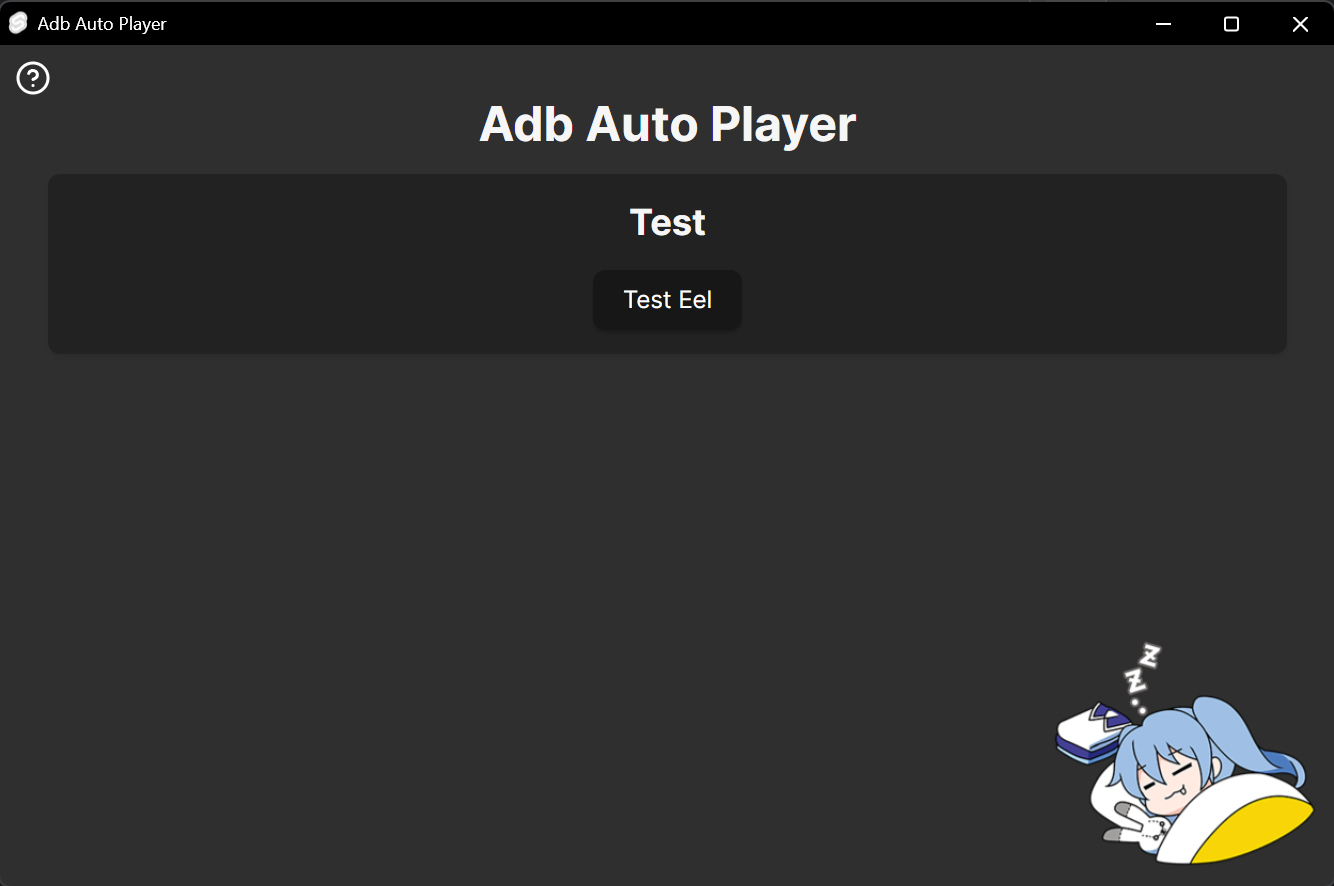
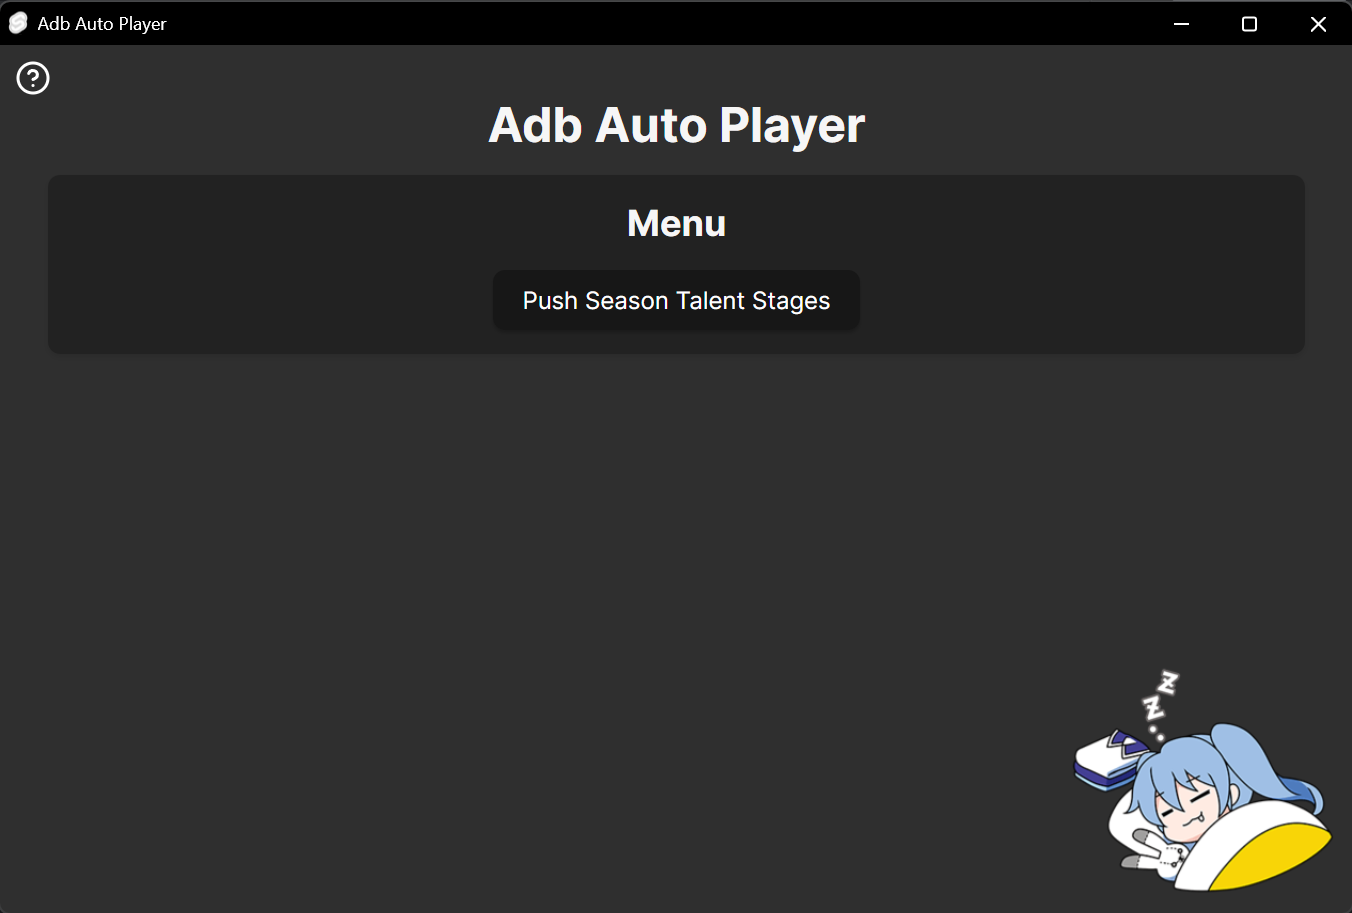
eel dev working state

diff --git a/adb_auto_player/frontend/src/routes/+page.svelte b/adb_auto_player/frontend/src/routes/+page.svelte
@@ -1,18 +1,22 @@
 <script lang="ts">
-    let eel = window.eel;
-    eel?.set_host('ws://localhost:8888');
     import CommandPanel from "./CommandPanel.svelte";
+
+    let disabled = false;
 
     function eelTest(event: Event) {
         event.preventDefault();
-        eel.say_hello_py("Javascript World!");
+        disabled = true;
+        window.eel?.test_bla_bla()((response: string) => {
+            console.log(response);
+            disabled = false;
+        });
     }
 </script>
 
 <main class="container">
     <h1>Adb Auto Player</h1>
-    <CommandPanel title={"Test"}>
-        <button onclick={eelTest}>Test Eel</button>
+    <CommandPanel title={"Menu"}>
+        <button {disabled} onclick={eelTest} >Push Season Talent Stages</button>
     </CommandPanel>
 </main>
 

diff --git a/adb_auto_player/frontend/src/app.html b/adb_auto_player/frontend/src/app.html
@@ -6,6 +6,9 @@
 		<link rel="icon" href="%sveltekit.assets%/favicon.png" />
 		<meta name="viewport" content="width=device-width, initial-scale=1" />
 		<script type="text/javascript" src="http://localhost:8888/eel.js"></script>
+		<script>
+			window.eel?.set_host('http://localhost:8888');
+		</script>
 		%sveltekit.head%
 	</head>
 	<body data-sveltekit-preload-data="hover">

diff --git a/adb_auto_player/main.py b/adb_auto_player/main.py
@@ -7,39 +7,10 @@ from adb_auto_player.logging_setup import update_logging_from_config, setup_logg
 
 setup_logging()
 
-
-def __setup() -> None:
-    update_logging_from_config(main_config)
-
-
-def __version_updater() -> None:
-    version = update_manager.get_version_from_pyproject()
-    if version == "0.0.0":
-        logging.info("Skipping updater for dev")
-        return
-    logging.info(f"Using Version: {version}")
-    logging.info("Checking for updates")
-    result = update_manager.update_plugins()
-    if result is None:
-        logging.info("No new updates")
-    elif result is not None and not result:
-        logging.warning(
-            ".exe or binary needs to be updated: "
-            "https://github.com/yulesxoxo/AdbAutoPlayer/releases/latest"
-        )
-    else:
-        logging.info("Plugins updated successfully")
-        logging.warning(
-            "Your plugin configs have been reset, "
-            "backups were saved as 'config_backup.toml'"
-        )
-
-
 if __name__ == "__main__":
     main_config = plugin_loader.get_main_config()
-
-    __setup()
-    __version_updater()
+    update_logging_from_config(main_config)
+    update_manager.version_updater()
 
     device = adb.get_device(main_config)
     app = adb.get_currently_running_app(device)

diff --git a/adb_auto_player/eel_main.py b/adb_auto_player/eel_main.py
@@ -1,13 +1,39 @@
+import sys
+
 import eel
+import adb_auto_player.eel_functions as eel_functions
 
-eel.init("frontend/build", [".tsx", ".ts", ".jsx", ".js", ".html", ".svelte"])
+import adb_auto_player.update_manager as update_manager
+import adb_auto_player.plugin_loader as plugin_loader
+from adb_auto_player.logging_setup import update_logging_from_config, setup_logging
+
+setup_logging()
 
 
-@eel.expose
-def say_hello_py(x: str) -> None:
-    print("Hello from %s" % x)
+def __init_dev() -> None:
+    eel.init("frontend/src", [".tsx", ".ts", ".jsx", ".js", ".html", ".svelte"])
+    eel.start(
+        {"port": 5173}, port=8888, host="localhost", mode="chrome"  # type: ignore
+    )
+    return None
+
+
+def __init() -> None:
+    eel.init("frontend/build", [".tsx", ".ts", ".jsx", ".js", ".html", ".svelte"])
+    eel.start("", port=8888, mode="chrome")
+    return None
+
+
+def __start_eel() -> None:
+    eel_functions.init()
+    if getattr(sys, "frozen", False):
+        __init()
+    else:
+        __init_dev()
 
 
 if __name__ == "__main__":
-    say_hello_py("test")
-    eel.start("", port=8888)
+    main_config = plugin_loader.get_main_config()
+    update_logging_from_config(main_config)
+    update_manager.version_updater()
+    __start_eel()

diff --git a/adb_auto_player/update_manager.py b/adb_auto_player/update_manager.py
@@ -197,3 +197,26 @@ def update_plugins() -> None | bool:
     all_plugins_installed = __install_compatible_plugins()
     shutil.rmtree("./tmp")
     return all_plugins_installed
+
+
+def version_updater() -> None:
+    version = get_version_from_pyproject()
+    if version == "0.0.0":
+        logging.info("Skipping updater for dev")
+        return
+    logging.info(f"Using Version: {version}")
+    logging.info("Checking for updates")
+    result = update_plugins()
+    if result is None:
+        logging.info("No new updates")
+    elif result is not None and not result:
+        logging.warning(
+            ".exe or binary needs to be updated: "
+            "https://github.com/yulesxoxo/AdbAutoPlayer/releases/latest"
+        )
+    else:
+        logging.info("Plugins updated successfully")
+        logging.warning(
+            "Your plugin configs have been reset, "
+            "backups were saved as 'config_backup.toml'"
+        )

diff --git a/adb_auto_player/eel_functions.py b/adb_auto_player/eel_functions.py
@@ -1,0 +1,35 @@
+import inspect
+
+import adb_auto_player.adb as adb
+import eel
+import adb_auto_player.plugin_loader as plugin_loader
+
+main_config = plugin_loader.get_main_config()
+device = None
+
+
+def init() -> None:
+    """This is only so functions here can be exposed."""
+    return None
+
+
+@eel.expose
+def get_running_app() -> str:
+    global device
+    if device is None:
+        device = adb.get_device(main_config)
+    return adb.get_currently_running_app(device)
+
+
+@eel.expose
+def test_bla_bla() -> None:
+    global device
+    if device is None:
+        device = adb.get_device(main_config)
+    module = plugin_loader.load_plugin_module("AFKJourney")
+    classes = [cls for name, cls in inspect.getmembers(module, inspect.isclass)]
+    class_name = classes[0]
+    obj = class_name(device, main_config)
+    print(device, main_config)
+    obj.push_afk_stages(season=True)
+    print(obj)

diff --git a/adb_auto_player/plugins/AFKJourney/run.py b/adb_auto_player/plugins/AFKJourney/run.py
@@ -403,12 +403,12 @@ def execute(device: AdbDevice, config: Dict[str, Any]) -> None | NoReturn:
 
     sleep(1)
 
-    menu(game)
+    __menu(game)
 
     return None
 
 
-def menu(game: AFKJourney) -> None | NoReturn:
+def __menu(game: AFKJourney) -> None | NoReturn:
     while True:
         print("Select an option:")
         print("[1] Push Season Talent Stages")
